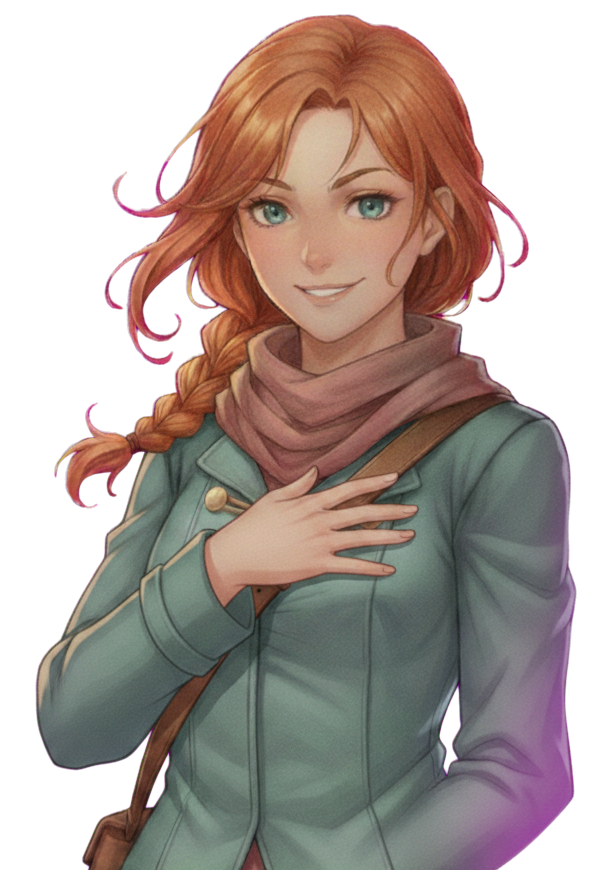
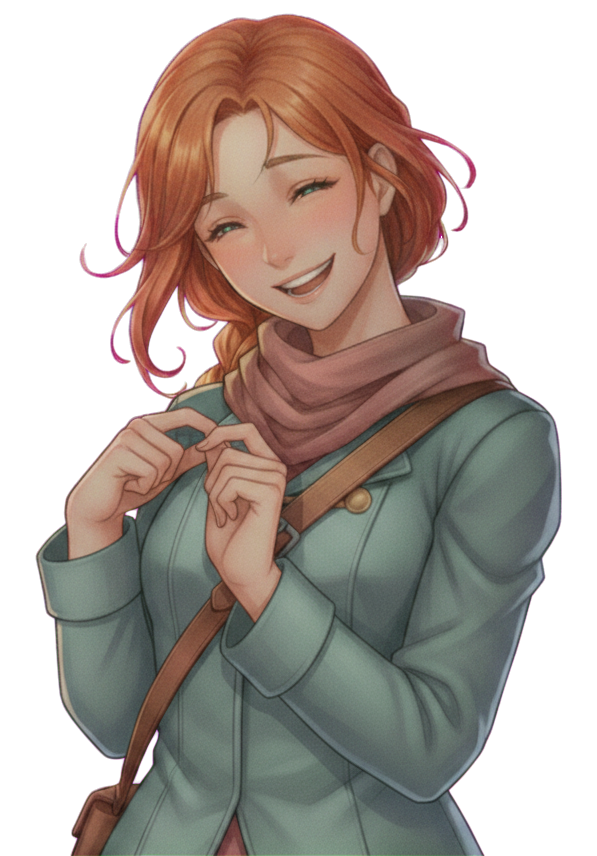
tender v9: guard-drop reroll on the picker

diff --git a/docs/qa/cutins/vesper-poses/index.html b/docs/qa/cutins/vesper-poses/index.html
@@ -37,11 +37,11 @@ the same height (width follows the pose), bottom sunk 55% behind the dialogue bo
 dialogue.js places it — so what you compare here is what the game will show.</p>
 <h2>rest</h2><div class=g><div class="c picked"><div class=stage><img src="rest-1.png" loading=lazy><div class=box>vesper — “…”</div></div><div class=m>★ PICKED — pose 1</div></div><div class="c"><div class=stage><img src="rest-2.png" loading=lazy><div class=box>vesper — “…”</div></div><div class=m>pose 2 <span class=k>· chained on pose 1</span></div></div><div class="c"><div class=stage><img src="rest-3.png" loading=lazy><div class=box>vesper — “…”</div></div><div class=m>pose 3 <span class=k>· chained on poses 1+2</span></div></div></div>
 <h2>happy</h2><div class=g><div class="c"><div class=stage><img src="happy-1.png" loading=lazy><div class=box>vesper — “…”</div></div><div class=m>pose 1</div></div><div class="c"><div class=stage><img src="happy-2.png" loading=lazy><div class=box>vesper — “…”</div></div><div class=m>pose 2 <span class=k>· chained on pose 1</span></div></div><div class="c picked"><div class=stage><img src="happy-3.png" loading=lazy><div class=box>vesper — “…”</div></div><div class=m>★ PICKED — pose 3 <span class=k>· chained on poses 1+2</span></div></div></div>
-<h2>wry</h2><div class=g><div class="c"><div class=stage><img src="wry-1.png" loading=lazy><div class=box>vesper — “…”</div></div><div class=m>pose 1</div></div><div class="c"><div class=stage><img src="wry-2.png" loading=lazy><div class=box>vesper — “…”</div></div><div class=m>pose 2 <span class=k>· chained on pose 1</span></div></div><div class="c"><div class=stage><img src="wry-3.png" loading=lazy><div class=box>vesper — “…”</div></div><div class=m>pose 3 <span class=k>· chained on poses 1+2</span></div></div></div>
+<h2>wry</h2><div class=g><div class="c"><div class=stage><img src="wry-1.png" loading=lazy><div class=box>vesper — “…”</div></div><div class=m>pose 1</div></div><div class="c picked"><div class=stage><img src="wry-2.png" loading=lazy><div class=box>vesper — “…”</div></div><div class=m>★ PICKED — pose 2 <span class=k>· chained on pose 1</span></div></div><div class="c"><div class=stage><img src="wry-3.png" loading=lazy><div class=box>vesper — “…”</div></div><div class=m>pose 3 <span class=k>· chained on poses 1+2</span></div></div></div>
 <h2>worried</h2><div class=g><div class="c"><div class=stage><img src="worried-1.png" loading=lazy><div class=box>vesper — “…”</div></div><div class=m>pose 1</div></div><div class="c picked"><div class=stage><img src="worried-2.png" loading=lazy><div class=box>vesper — “…”</div></div><div class=m>★ PICKED — pose 2 <span class=k>· chained on pose 1</span></div></div><div class="c"><div class=stage><img src="worried-3.png" loading=lazy><div class=box>vesper — “…”</div></div><div class=m>pose 3 <span class=k>· chained on poses 1+2</span></div></div></div>
 <h2>surprised</h2><div class=g><div class="c"><div class=stage><img src="surprised-1.png" loading=lazy><div class=box>vesper — “…”</div></div><div class=m>pose 1</div></div><div class="c"><div class=stage><img src="surprised-2.png" loading=lazy><div class=box>vesper — “…”</div></div><div class=m>pose 2 <span class=k>· chained on pose 1</span></div></div><div class="c picked"><div class=stage><img src="surprised-3.png" loading=lazy><div class=box>vesper — “…”</div></div><div class=m>★ PICKED — pose 3 <span class=k>· chained on poses 1+2</span></div></div></div>
-<h2>determined</h2><div class=g><div class="c"><div class=stage><img src="determined-1.png" loading=lazy><div class=box>vesper — “…”</div></div><div class=m>pose 1</div></div><div class="c"><div class=stage><img src="determined-2.png" loading=lazy><div class=box>vesper — “…”</div></div><div class=m>pose 2 <span class=k>· chained on pose 1</span></div></div><div class="c"><div class=stage><img src="determined-3.png" loading=lazy><div class=box>vesper — “…”</div></div><div class=m>pose 3 <span class=k>· chained on poses 1+2</span></div></div></div>
+<h2>determined</h2><div class=g><div class="c"><div class=stage><img src="determined-1.png" loading=lazy><div class=box>vesper — “…”</div></div><div class=m>pose 1</div></div><div class="c picked"><div class=stage><img src="determined-2.png" loading=lazy><div class=box>vesper — “…”</div></div><div class=m>★ PICKED — pose 2 <span class=k>· chained on pose 1</span></div></div><div class="c"><div class=stage><img src="determined-3.png" loading=lazy><div class=box>vesper — “…”</div></div><div class=m>pose 3 <span class=k>· chained on poses 1+2</span></div></div></div>
 <h2>sad</h2><div class=g><div class="c picked"><div class=stage><img src="sad-1.png" loading=lazy><div class=box>vesper — “…”</div></div><div class=m>★ PICKED — pose 1</div></div><div class="c"><div class=stage><img src="sad-2.png" loading=lazy><div class=box>vesper — “…”</div></div><div class=m>pose 2 <span class=k>· chained on pose 1</span></div></div><div class="c"><div class=stage><img src="sad-3.png" loading=lazy><div class=box>vesper — “…”</div></div><div class=m>pose 3 <span class=k>· chained on poses 1+2</span></div></div></div>
 <h2>tender</h2><div class=g><div class="c"><div class=stage><img src="tender-1.png" loading=lazy><div class=box>vesper — “…”</div></div><div class=m>pose 1</div></div><div class="c"><div class=stage><img src="tender-2.png" loading=lazy><div class=box>vesper — “…”</div></div><div class=m>pose 2 <span class=k>· chained on pose 1</span></div></div><div class="c"><div class=stage><img src="tender-3.png" loading=lazy><div class=box>vesper — “…”</div></div><div class=m>pose 3 <span class=k>· chained on poses 1+2</span></div></div></div>
-<h2>thinking</h2><div class=g><div class="c"><div class=stage><img src="thinking-1.png" loading=lazy><div class=box>vesper — “…”</div></div><div class=m>pose 1</div></div><div class="c"><div class=stage><img src="thinking-2.png" loading=lazy><div class=box>vesper — “…”</div></div><div class=m>pose 2 <span class=k>· chained on pose 1</span></div></div><div class="c"><div class=stage><img src="thinking-3.png" loading=lazy><div class=box>vesper — “…”</div></div><div class=m>pose 3 <span class=k>· chained on poses 1+2</span></div></div></div>
+<h2>thinking</h2><div class=g><div class="c"><div class=stage><img src="thinking-1.png" loading=lazy><div class=box>vesper — “…”</div></div><div class=m>pose 1</div></div><div class="c"><div class=stage><img src="thinking-2.png" loading=lazy><div class=box>vesper — “…”</div></div><div class=m>pose 2 <span class=k>· chained on pose 1</span></div></div><div class="c picked"><div class=stage><img src="thinking-3.png" loading=lazy><div class=box>vesper — “…”</div></div><div class=m>★ PICKED — pose 3 <span class=k>· chained on poses 1+2</span></div></div></div>
 <h2>annoyed</h2><div class=g><div class="c picked"><div class=stage><img src="annoyed-1.png" loading=lazy><div class=box>vesper — “…”</div></div><div class=m>★ PICKED — pose 1</div></div><div class="c"><div class=stage><img src="annoyed-2.png" loading=lazy><div class=box>vesper — “…”</div></div><div class=m>pose 2 <span class=k>· chained on pose 1</span></div></div><div class="c"><div class=stage><img src="annoyed-3.png" loading=lazy><div class=box>vesper — “…”</div></div><div class=m>pose 3 <span class=k>· chained on poses 1+2</span></div></div></div>
